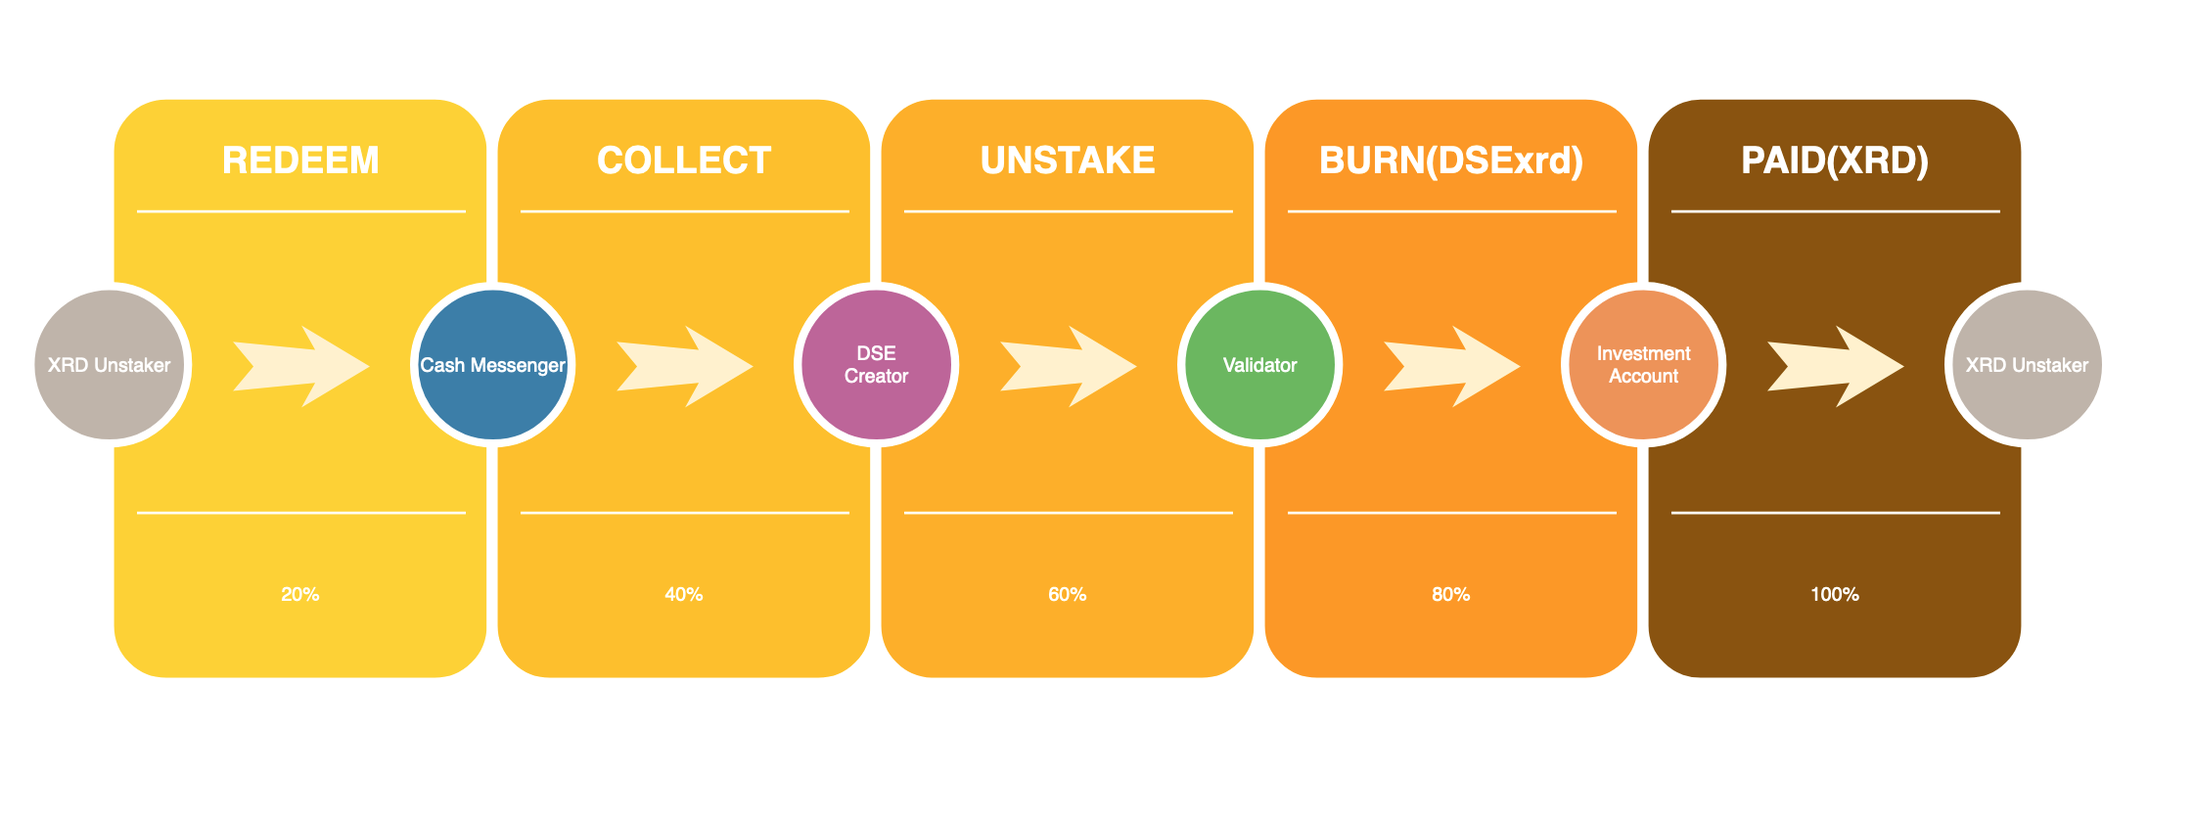
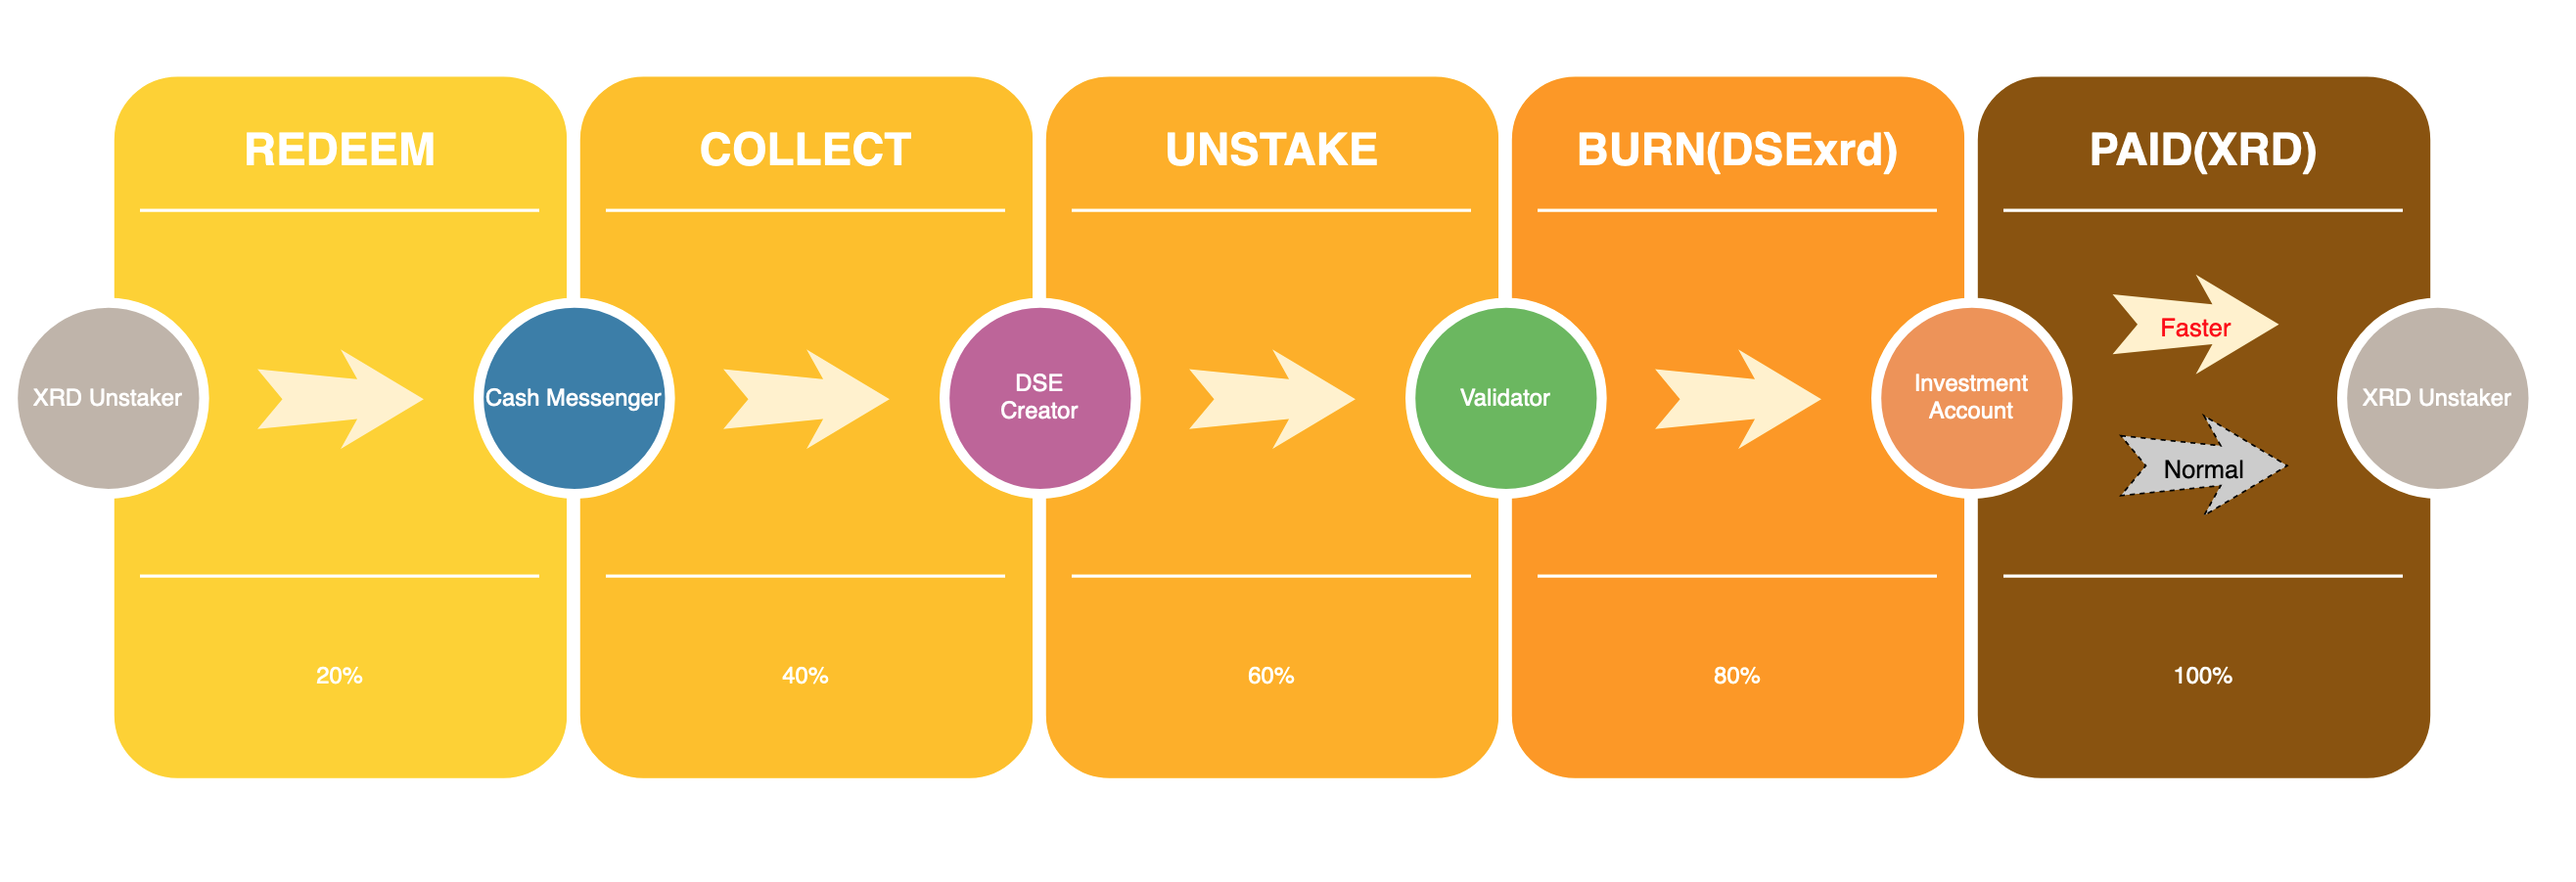
x

diff --git a/april_stake_unstake.md b/april_stake_unstake.md
@@ -1,0 +1,43 @@
+# 为什么需要快速赎回？
+
+以下数据是4月以来的一些Stake数据：
+
+| date     | stake    | unstake  | diff      |
+| -------- | -------- | -------- | --------- |
+| 23-04-03 |   849240 |  4338934 |  -3489694 |
+| 23-04-04 | 12726334 |  3212903 |   9513431 |
+| 23-04-05 |  4139103 |   889948 |   3249155 |
+| 23-04-06 |  5069262 |   132282 |   4936980 |
+| 23-04-07 |  6251590 |  1022629 |   5228961 |
+| 23-04-08 |  2421060 |  1064519 |   1356541 |
+| 23-04-09 |  4895439 |  7717707 |  -2822268 |
+| 23-04-10 |  7720409 |  8161243 |   -440834 |
+| 23-04-11 |  2035399 |  3607290 |  -1571891 |
+| 23-04-12 |  2621950 |  4370982 |  -1749032 |
+| 23-04-13 |  6880948 | 11162750 |  -4281802 |
+| 23-04-14 |  7695243 |  4026007 |   3669236 |
+| 23-04-15 |  3127180 |  4145977 |  -1018797 |
+| 23-04-16 |  2325388 |  2453864 |   -128476 |
+| 23-04-17 |  8832692 | 65093248 | -56260556 |
+| 23-04-18 |  6665537 | 27638531 | -20972994 |
+| 23-04-19 |  2206961 | 12370685 | -10163724 |
+| 23-04-20 | 13342196 |  1800380 |  11541816 |
+| 23-04-21 |  2155503 |  1370984 |    784519 |
+| 23-04-22 |  2310247 |   837814 |   1472433 |
+| 23-04-23 | 26628387 |  1209197 |  25419190 |
+| 23-04-24 |  7885990 |  3938541 |   3947449 |
+| 23-04-25 |  4301051 |  1792659 |   2508392 |
+| 23-04-26 |  3797316 | 22731619 | -18934303 |
+| 23-04-27 |  4495081 | 13715010 |  -9219929 |
+| 23-04-28 |  4125571 |   751304 |   3374267 |
+
+用直观的图形表示如下, 可见自4.10开始出现波动，其中4.17~4.19更是共达105,102,464的unstake。
+![april stake unstake](assets/images/April_Stake_Unstake.png)
+同时价格波动如图，可见4.17~4.19创造出了0.14$的近期新高。
+![price chart](assets/images/xrd_price_chart.png)
+
+我们不能判断这些unstake的真实意图，其中最大额的unstake地址为：[https://explorer.radixdlt.com/#/accounts/rdx1qsppt8zy6ajg4ky82ehndalm6rf4juc3lmzxd7ag66a0nnde4j4085syusc7l](https://explorer.radixdlt.com/#/accounts/rdx1qsppt8zy6ajg4ky82ehndalm6rf4juc3lmzxd7ag66a0nnde4j4085syusc7l)截止写这些文字时，它的unstake还没有解锁，而此时的价格为0.10733$。如果假设这些unstake是为了进入流动性市场，那么快速赎回能为105,102,464XRD的Unstake创造潜在价值达到：3,433,697$，以8%的年化收益计算这些快速赎回也能提供约276,433XRD服务费用。
+
+DeXian Staking Earning的价值就是解决用户端快速抵押，快速赎回; 系统端提供更健壮，安全，去中心化的网络服务。
+
+
